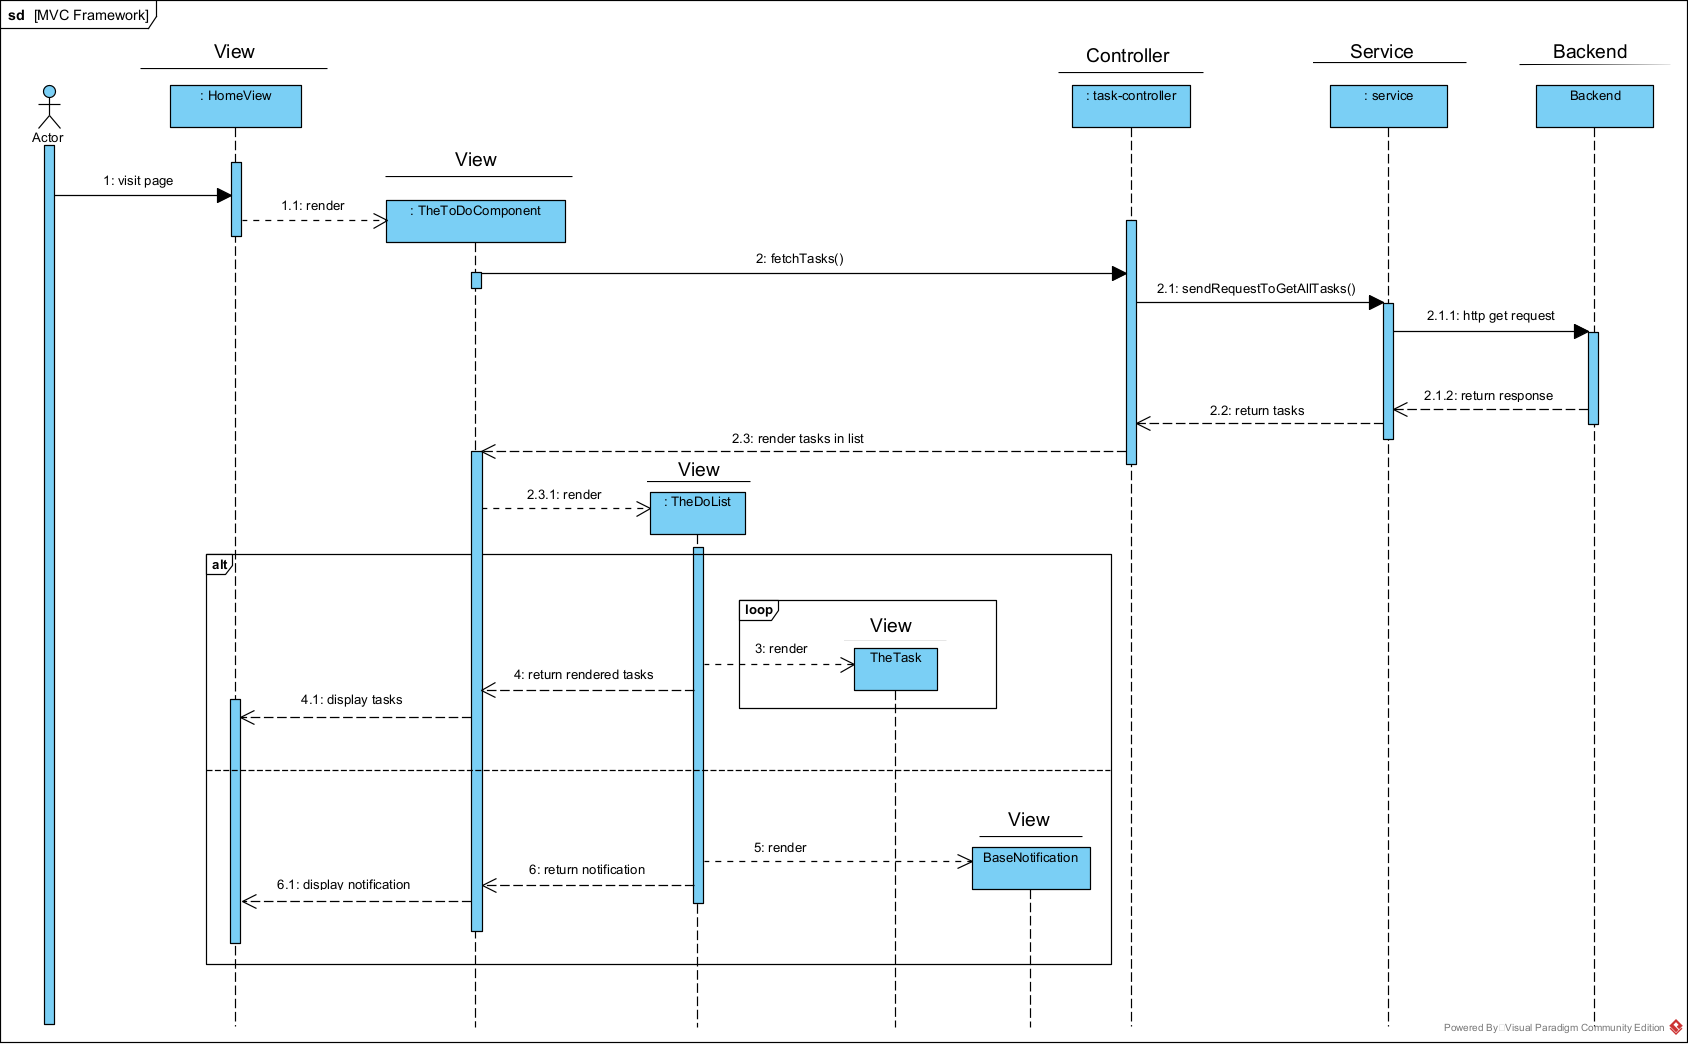
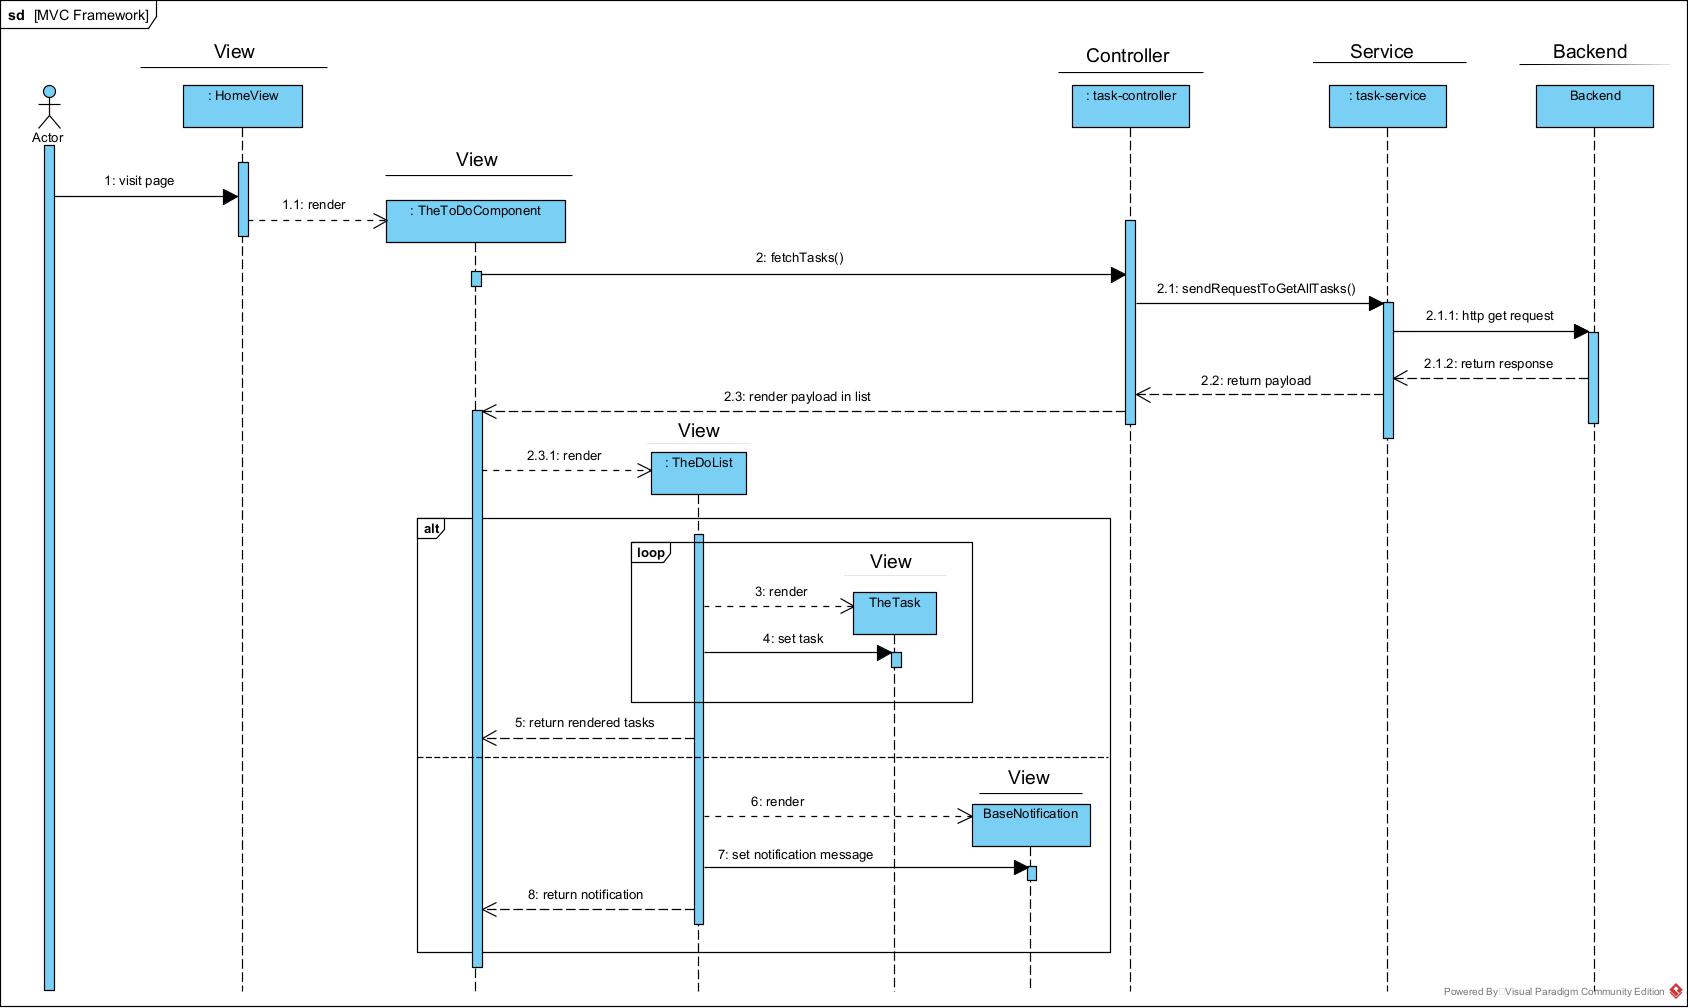
Updated log for Sequence_Task

diff --git a/design/logs/Sequence_Task.md b/design/logs/Sequence_Task.md
@@ -1,5 +1,36 @@
 # Sequence Task
 
+**Note:**
+Omdat de focus in deze diagrammen op de frontend ligt, zijn de stappen die zich in de backend afspelen geabstraheerd. Dit wil zeggen dat we in deze modellen ervan uitgaan dat de backend correct is opgezet waarbij de de verzoeken van de frontend kan ontvangen, deze verder afhandeld en vervolgens een response terugstuurt.
+
+Vanuit deze gedachtegang is er voor dit project ook geen backend opgezet. In plaats daarvan wordt er een tool `json-server` gebruikt – terug te vinden in de `package.json` – om hiermee een mock database te simuleren.
+
+Dit betekent, wanneer er later kan worden gekozen om een echte database te gebruiken, dat er niet veel wijzigingen aan de frontend hoeven worden gedaan. Mogelijk hoeven alleen de host en de port - afhankelijk van hoe dit in de backend is ingesteld - te worden aangepast om met de backend te kunnen communiceren.
+
+---
+
 ## Get All Task
 
 ![alt text](../model/get_task.png)
+
+Volgens de volgorde van deze diagram begint de proces bij de `Actor` die een pagina bezoekt genaamd `HomeView`. Automatisch bij het bezoeken van deze pagina wordt de component `TheToDoComponent` gerenderd, waarin de eerste logica beginnen af te spelen.
+
+Tussen de `TheToDoComponent` en `task-controller` wordt er direct een fetch gedaan met de `fetchTasks()` en opgevolgd met `sendRequestToGetAllTasks()`. Met deze `GET` request zou de backend data moeten aanleveren, mits deze in de databron aanwezig is.
+
+Naar aanleiding van deze `GET` request wordt en altijd een response teruggegeven (ook als deze databron voor dit scenario geen data van de `Task` bevat).
+
+Naar aanleiding dat de backend een response geeft wordt hiervan een payload opgezet. Deze wordt verder doorgegeven doorgeven als een lijst van de bevondingen om op basis hiervan de component `TheToDoList` te renderen.
+
+Deze lijst bevat een conditie, waarmee hier wordt gekeken of de lijst niet leeg is.
+
+- Als de lijst niet leeg is wordt er component gerenderd (genaamd `TheTask`), waarvan deze de logica bevat om de payload op te zetten naar aanleiding van de ID.
+
+- Als de lijst leeg is wordt de component `BaseNotification` gerenderd. In tegenstelling tot een niet lege lijst, wordt deze component altijd een keer gerenderd
+
+Ongeact wat de uitkomst is van deze afhandeling, wordt er altijd een van deze twee boven genoemde condities één of meerdere componenten im de `TheToDoComponent` gerenderd (afhankelijk van hoeveel items in de lijst zitten), waarvan de actor deze te zien krijgt.
+
+---
+
+## Add task
+
+![add task](../model/add_task.png)
